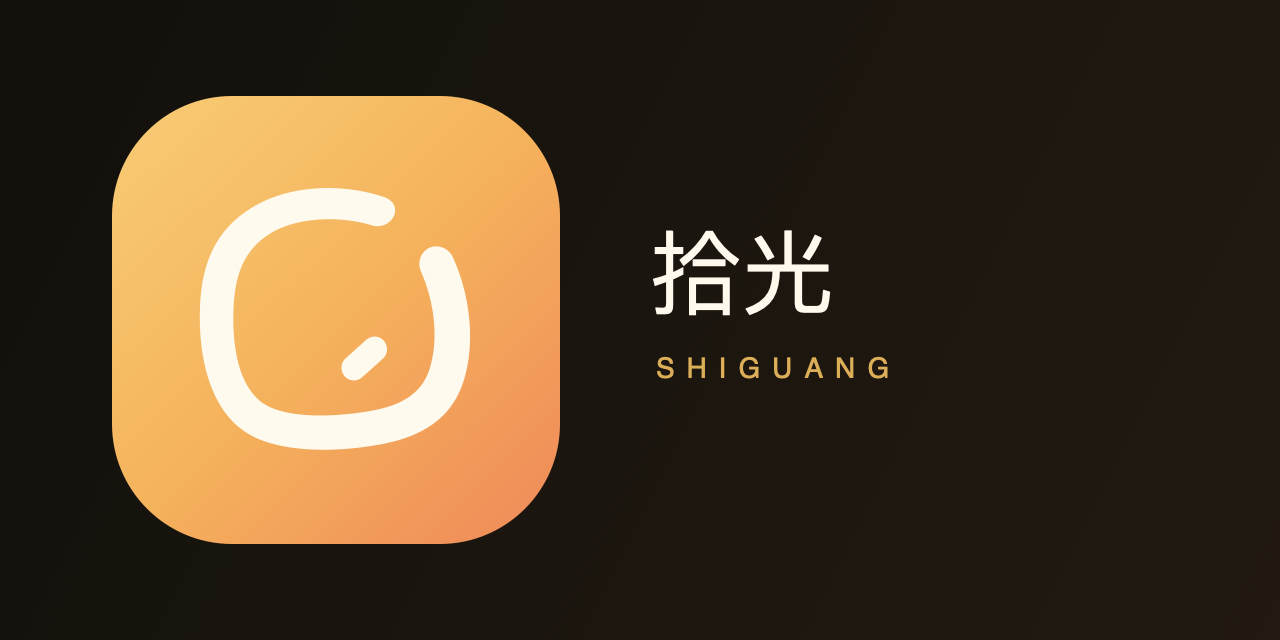
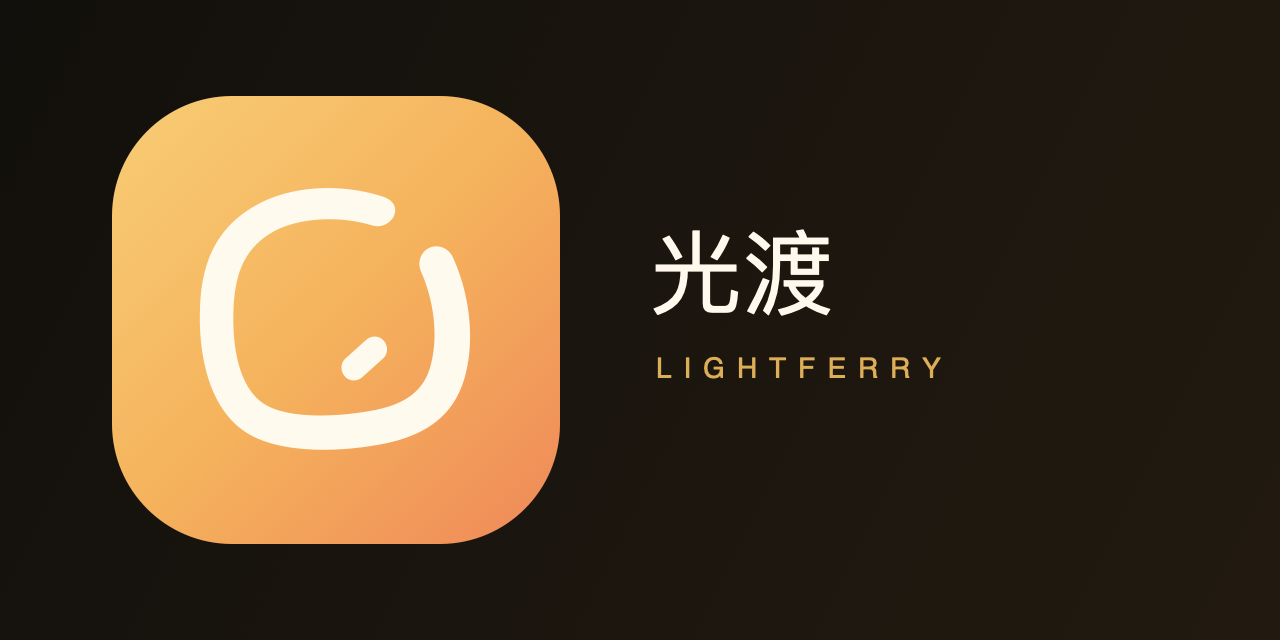
品牌：改用光渡 Lightferry 名称并清理未引用图片
- 四语言 README 与版本记录改为光渡（原名拾光），说明 v0.2.2 安装后仍显示旧名
- 帮助区加入售后邮箱 support@lightferry.app
- 更新 GitHub 分享图为光渡 / LIGHTFERRY
- 删除未被引用的重复截图与旧概览图

Changed region(s): [[0.5, 0.3438, 0.6562, 0.5], [0.5, 0.5625, 0.75, 0.5938]]

diff --git a/README.ja.md b/README.ja.md
@@ -1,30 +1,31 @@
 [简体中文](./README.md) · [繁體中文](./README.zh-TW.md) · [English](./README.en.md) · [日本語](./README.ja.md)
 
-<p align="center"><img src="./shiguang-icon.png" width="96" height="96" alt="拾光のアプリアイコン"></p>
-<h1 align="center">拾光 Shiguang</h1>
+<p align="center"><img src="./shiguang-icon.png" width="96" height="96" alt="光渡のアプリアイコン"></p>
+<h1 align="center">光渡 Lightferry</h1>
 <p align="center"><strong>撮影素材を、確かめながら持ち帰る。</strong></p>
+<p align="center">旧名は「拾光 Shiguang」です。v0.2.2 はインストール後も旧名で表示され、次のバージョンから光渡に統一します。</p>
 <p align="center">写真家、DIT、映像制作チームのための Mac 用素材ワークスペース。メモリーカード、ファイル、フォルダーから素材を取り込み、複数の保存先へ書き込み、コピーを検証して、検索できるプロジェクト・作業レポートを残します。</p>
 <p align="center"><a href="https://github.com/Sorasukiawa/shiguang/releases/download/v0.2.2/Shiguang_0.2.2_aarch64.dmg"><strong>v0.2.2 をダウンロード · Apple Silicon Mac</strong></a> · <a href="https://getshiguang.pages.dev/guides/">使い方</a> · <a href="https://github.com/Sorasukiawa/shiguang/releases/tag/v0.2.2">更新内容</a></p>
 <p align="center">無料ベータ版 · 简体中文 / 繁體中文 / English / 日本語 · ライト／ダークテーマ</p>
 
-![3 件のサンプル撮影プロジェクトを表示する拾光 v0.2.1 Mac のプロジェクト画面。ダークテーマ、中国語 UI](./projects-v0.2.1-native-macos.png)
+![3 件のサンプル撮影プロジェクトを表示するv0.2.1 Mac のプロジェクト画面。ダークテーマ、中国語 UI](./projects-v0.2.1-native-macos.png)
 
 *v0.2.1 Apple Silicon Mac のネイティブウィンドウを撮影。プロジェクト名とデータは隔離したデモ環境のサンプルです。*
 
 ## 撮影素材の流れを明確に
 
-| 開始する作業 | 拾光でできること | 確認できる結果 |
+| 開始する作業 | 光渡でできること | 確認できる結果 |
 | --- | --- | --- |
 | **カード取り込み** | 写真・動画・音声を検出し、プロジェクト、撮影日、カメラごとに整理。元カードを一度読み、作業用と二つ目のバックアップ先へ同時に書き込み | 保存先ごとのコピー・検証結果、カード履歴、再試行の状態 |
 | **ファイル／フォルダーのコピー** | Finder からドラッグ、または選択。階層を保持して一つ以上の保存先へコピー | 元ファイル一覧、空き容量の事前確認、転送結果、未完了分の再試行 |
 | **プロジェクトへの素材追加** | 既存素材を指定プロジェクトへ追加し、写真・動画・音声・制作ファイルなどに振り分け | 追加先、プロジェクト記録、作業結果 |
 | **プロジェクトのアーカイブ** | ローカルまたはネットワーク先へアーカイブ。プロジェクト記録を保持し、ローカル素材を自動削除しない | アーカイブ作業、取得できた検証結果、レポート |
 
-拾光は**既存ファイルを上書きしません**。複数の保存先は別々に結果を記録します。中断や切断の後は保存先の識別情報と空き容量を再確認し、未完了のコピーだけを再試行します。
+光渡は**既存ファイルを上書きしません**。複数の保存先は別々に結果を記録します。中断や切断の後は保存先の識別情報と空き容量を再確認し、未完了のコピーだけを再試行します。
 
 ### ファイルコピー
 
-![サンプル元フォルダー、2 つの保存先、完全検証を表示する拾光 v0.2.1 Mac のファイルコピー画面。中国語 UI](./file-copy-v0.2.1-native-macos.png)
+![サンプル元フォルダー、2 つの保存先、完全検証を表示するv0.2.1 Mac のファイルコピー画面。中国語 UI](./file-copy-v0.2.1-native-macos.png)
 
 *v0.2.1 Apple Silicon Mac のネイティブウィンドウを撮影。パスとファイルは隔離したデモ環境のサンプルです。*
 
@@ -32,14 +33,14 @@
 
 プロジェクト、日付、種類、状態で結果を探し、オフライン HTML または複数ページの PDF に書き出せます。過去の記録にない項目は「未記録」と示し、成功と推定しません。
 
-<img src="./report-v0.2.1-synthetic.png" width="480" alt="中断・失敗を含む合成データを使った拾光 v0.2.1 の PDF 作業レポート。中国語表示">
+<img src="./report-v0.2.1-synthetic.png" width="480" alt="中断・失敗を含む合成データを使ったv0.2.1 の PDF 作業レポート。中国語表示">
 
 *v0.2.1 のレポート例。内容はすべて合成データです。*
 
 ## 使い始める
 
 1. 上の **Apple Silicon Mac** 用 DMG をダウンロードしてください。Intel Mac と Windows 向けの公開インストーラーはありません。チップは ** → この Mac について** で確認できます。
-2. DMG を開き、拾光を「アプリケーション」へドラッグします。macOS が初回起動を止めた場合は、**システム設定 → プライバシーとセキュリティ** でアプリを確認し、「このまま開く」を選びます。Gatekeeper を無効にする必要はありません。
+2. DMG を開き、拾光を「アプリケーション」へドラッグします（v0.2.2 は旧名のままです）。macOS が初回起動を止めた場合は、**システム設定 → プライバシーとセキュリティ** でアプリを確認し、「このまま開く」を選びます。Gatekeeper を無効にする必要はありません。
 3. 元データ、プロジェクト、保存先を追加し、容量と検証方法を確認してから開始してください。大切な素材は元カードと別の信頼できるバックアップを残し、コピー確認後にカードを初期化してください。
 
 現在は**無料ベータ版**です。ad-hoc 署名を使用しており、Apple Developer ID 署名と公証はありません。[このリポジトリの Releases](https://github.com/Sorasukiawa/shiguang/releases) からのみ入手してください。カード取り込み、ファイルコピー、アーカイブの実行中は更新をインストールできません。
@@ -58,14 +59,14 @@
 
 - **検証なし**は書き込み時のエラーだけを確認するため、大切な素材には適しません。**簡易検証**は各保存先を読み直し、コピー時に計算した元ファイルの XXH64 と比較します。**完全検証**ではさらにすべての元ファイルを独立して読み直します。XXH64 は内容の差を調べるもので、暗号学的な署名ではありません。検証後も重要な素材を目視確認してください。
 - 作業用、第二バックアップ、アーカイブ先には APFS を推奨します。ExFAT を保存先に使う場合は安全機能の確認が必要で、確認できなければ書き込み前に拒否します。ExFAT のカメラカードは読み取り専用の元データとして使えます。既存メディアの初期化は要求しません。
-- 素材の走査・コピー・検証とプロジェクト記録は既定でローカル処理され、拾光のサーバーへ写真や動画をアップロードしません。NAS や外部同期フォルダーを選んだ場合、その後の転送・同期は OS または各サービスが担当します。切断や同期の動作は利用環境で確認してください。
+- 素材の走査・コピー・検証とプロジェクト記録は既定でローカル処理され、光渡のサーバーへ写真や動画をアップロードしません。NAS や外部同期フォルダーを選んだ場合、その後の転送・同期は OS または各サービスが担当します。切断や同期の動作は利用環境で確認してください。
 
 </details>
 
 ## ヘルプとフィードバック
 
-[公式サイト](https://getshiguang.pages.dev/) · [使い方](https://getshiguang.pages.dev/guides/) · [問題を報告](https://github.com/Sorasukiawa/shiguang/issues)
+[公式サイト](https://getshiguang.pages.dev/) · [使い方](https://getshiguang.pages.dev/guides/) · [問題を報告](https://github.com/Sorasukiawa/shiguang/issues) · 非公開のお問い合わせ：[support@lightferry.app](mailto:support@lightferry.app)
 
 報告にはアプリと macOS のバージョン、チップ、元データと保存先の形式、再現手順、エラー全文を添えてください。画像のプロジェクト名やパスは隠し、**元の素材や顧客情報はアップロードしないでください**。
 
-このリポジトリはインストーラー、説明、リリース履歴、フィードバックを公開します。**拾光アプリのソースコードは含まず、オープンソースライセンスや再配布の許可もありません。** GitHub が自動生成する Source code は、このリポジトリの公開資料をまとめたもので、アプリのインストーラーではありません。
+このリポジトリはインストーラー、説明、リリース履歴、フィードバックを公開します。**光渡アプリのソースコードは含まず、オープンソースライセンスや再配布の許可もありません。** GitHub が自動生成する Source code は、このリポジトリの公開資料をまとめたもので、アプリのインストーラーではありません。

diff --git a/README.en.md b/README.en.md
@@ -1,30 +1,31 @@
 [简体中文](./README.md) · [繁體中文](./README.zh-TW.md) · [English](./README.en.md) · [日本語](./README.ja.md)
 
-<p align="center"><img src="./shiguang-icon.png" width="96" height="96" alt="Shiguang app icon"></p>
-<h1 align="center">Shiguang 拾光</h1>
+<p align="center"><img src="./shiguang-icon.png" width="96" height="96" alt="Lightferry app icon"></p>
+<h1 align="center">Lightferry 光渡</h1>
 <p align="center"><strong>Bring your footage home with confidence.</strong></p>
+<p align="center">Formerly Shiguang 拾光. v0.2.2 still shows the old name after installation; the next release switches to Lightferry.</p>
 <p align="center">A Mac media workspace for photographers, DITs, and video production teams. Ingest camera cards, files, and folders; write to multiple destinations; verify each copy; and keep searchable project and task reports.</p>
 <p align="center"><a href="https://github.com/Sorasukiawa/shiguang/releases/download/v0.2.2/Shiguang_0.2.2_aarch64.dmg"><strong>Download v0.2.2 · Apple Silicon Mac</strong></a> · <a href="https://getshiguang.pages.dev/guides/">User guides</a> · <a href="https://github.com/Sorasukiawa/shiguang/releases/tag/v0.2.2">What's new</a></p>
 <p align="center">Free beta · 简体中文 / 繁體中文 / English / 日本語 · Light and dark themes</p>
 
-![Shiguang v0.2.1 Mac project workspace with three sample photography projects; dark theme, Chinese interface](./projects-v0.2.1-native-macos.png)
+![v0.2.1 Mac project workspace with three sample photography projects; dark theme, Chinese interface](./projects-v0.2.1-native-macos.png)
 
 *Native v0.2.1 Apple Silicon Mac window capture. Project names and data come from an isolated demo environment.*
 
 ## A clear path for every shoot
 
-| Start with | What Shiguang does | What you can check |
+| Start with | What Lightferry does | What you can check |
 | --- | --- | --- |
 | **Camera card ingest** | Finds photo, video, and audio media; organizes by project, shoot date, and camera; reads the source once while writing to a working disk and a second backup | Copy and verification results for each destination, card history, and retry status |
 | **File and folder copy** | Takes files from Finder or a picker, preserves folder structure, and writes to one or more destinations | Source list, capacity preflight, transfer results, and retry for incomplete copies |
 | **Project media import** | Adds existing media to a chosen project and maps photos, video, audio, and project files into its folders | Import location, project record, and task result |
 | **Project archive** | Archives to a local or network destination while retaining the project record; does not automatically delete local media | Archive task, available verification result, and report |
 
-Shiguang **never overwrites existing files**. Multi-destination results are tracked separately. After an interruption or disconnect, it checks destination identity and capacity again before retrying incomplete copies.
+Lightferry **never overwrites existing files**. Multi-destination results are tracked separately. After an interruption or disconnect, it checks destination identity and capacity again before retrying incomplete copies.
 
 ### File copy
 
-![Shiguang v0.2.1 Mac file-copy screen with a sample source, two destinations, and full verification; Chinese interface](./file-copy-v0.2.1-native-macos.png)
+![v0.2.1 Mac file-copy screen with a sample source, two destinations, and full verification; Chinese interface](./file-copy-v0.2.1-native-macos.png)
 
 *Native v0.2.1 Apple Silicon Mac window capture. Paths and files come from an isolated demo environment.*
 
@@ -32,14 +33,14 @@ Shiguang **never overwrites existing files**. Multi-destination results are trac
 
 Find results by project, date, type, and status; export an offline HTML or multipage PDF report. Missing fields in older records are marked as unknown rather than treated as success.
 
-<img src="./report-v0.2.1-synthetic.png" width="480" alt="Shiguang v0.2.1 PDF task report with synthetic data showing interrupted and failed tasks; Chinese content">
+<img src="./report-v0.2.1-synthetic.png" width="480" alt="v0.2.1 PDF task report with synthetic data showing interrupted and failed tasks; Chinese content">
 
 *v0.2.1 report example; all content is synthetic.*
 
 ## Get started
 
 1. Download the **Apple Silicon Mac** DMG above. There is no public Intel Mac or Windows installer. Check your chip in **Apple menu → About This Mac**.
-2. Open the DMG and drag Shiguang into Applications. If macOS blocks the first launch, verify the app in **System Settings → Privacy & Security** and choose **Open Anyway**. You do not need to disable Gatekeeper.
+2. Open the DMG and drag Shiguang into Applications (v0.2.2 still uses the old name). If macOS blocks the first launch, verify the app in **System Settings → Privacy & Security** and choose **Open Anyway**. You do not need to disable Gatekeeper.
 3. Add a source, project, and destinations. Review capacity and verification before starting. Keep the original card and another reliable backup for important media; format the card only after checking the copies.
 
 This is a **free beta** with an ad-hoc signature, without Apple Developer ID signing or notarization. Download only from [this repository's Releases](https://github.com/Sorasukiawa/shiguang/releases). Active ingest, file-copy, or archive tasks block installation of an update.
@@ -57,15 +58,15 @@ This is a **free beta** with an ad-hoc signature, without Apple Developer ID sig
 <summary>Verification, storage, and network folders</summary>
 
 - **No verification** only relies on write errors and is unsuitable for important media. **Fast verification** rereads each destination file and compares its XXH64 with the hash computed from the source during copying. **Full verification** independently rereads every source file too. XXH64 detects content differences; it is not a cryptographic signature. Spot-check critical media even after verification passes.
-- APFS is recommended for working, second-backup, and archive destinations. ExFAT can be a destination only if it passes Shiguang's safety capability check; otherwise writing is refused before it starts. An ExFAT camera card can be a read-only source. Shiguang does not require formatting existing media.
-- Scanning, copying, verification, and project records are local by default; Shiguang does not upload photos or video to its own server. If you choose a NAS or third-party sync folder, the operating system or service handles subsequent network transfer or sync. Check disconnect and sync behavior in your own environment.
+- APFS is recommended for working, second-backup, and archive destinations. ExFAT can be a destination only if it passes Lightferry's safety capability check; otherwise writing is refused before it starts. An ExFAT camera card can be a read-only source. Lightferry does not require formatting existing media.
+- Scanning, copying, verification, and project records are local by default; Lightferry does not upload photos or video to its own server. If you choose a NAS or third-party sync folder, the operating system or service handles subsequent network transfer or sync. Check disconnect and sync behavior in your own environment.
 
 </details>
 
 ## Help and feedback
 
-[Website](https://getshiguang.pages.dev/) · [Guides](https://getshiguang.pages.dev/guides/) · [Report an issue](https://github.com/Sorasukiawa/shiguang/issues)
+[Website](https://getshiguang.pages.dev/) · [Guides](https://getshiguang.pages.dev/guides/) · [Report an issue](https://github.com/Sorasukiawa/shiguang/issues) · Private support: [support@lightferry.app](mailto:support@lightferry.app)
 
 Include the app version, macOS version and chip, source and destination formats, reproduction steps, and complete error text. Redact project names and paths in screenshots. **Do not upload original media or client information.**
 
-This repository hosts installers, documentation, release history, and feedback. **It does not contain the Shiguang app source code or grant an open-source or redistribution license.** GitHub's automatic Source code archives contain only this repository's public materials; they are not app installers.
+This repository hosts installers, documentation, release history, and feedback. **It does not contain the Lightferry app source code or grant an open-source or redistribution license.** GitHub's automatic Source code archives contain only this repository's public materials; they are not app installers.

diff --git a/README.zh-TW.md b/README.zh-TW.md
@@ -1,30 +1,31 @@
 [简体中文](./README.md) · [繁體中文](./README.zh-TW.md) · [English](./README.en.md) · [日本語](./README.ja.md)
 
-<p align="center"><img src="./shiguang-icon.png" width="96" height="96" alt="拾光 App 圖示"></p>
-<h1 align="center">拾光 Shiguang</h1>
+<p align="center"><img src="./shiguang-icon.png" width="96" height="96" alt="光渡 App 圖示"></p>
+<h1 align="center">光渡 Lightferry</h1>
 <p align="center"><strong>把拍攝素材，妥善帶回。</strong></p>
+<p align="center">原名「拾光 Shiguang」。v0.2.2 安裝後仍顯示舊名，下一版起統一為光渡。</p>
 <p align="center">為攝影師、DIT 與影像製作團隊設計的 Mac 素材工作台：從記憶卡、檔案與資料夾收取素材，寫入多個目的地，驗證副本，留下可查閱的專案與工作報告。</p>
 <p align="center"><a href="https://github.com/Sorasukiawa/shiguang/releases/download/v0.2.2/Shiguang_0.2.2_aarch64.dmg"><strong>下載 v0.2.2 · Apple Silicon Mac</strong></a> · <a href="https://getshiguang.pages.dev/guides/">使用指南</a> · <a href="https://github.com/Sorasukiawa/shiguang/releases/tag/v0.2.2">版本更新</a></p>
 <p align="center">免費測試版 · 简体中文 / 繁體中文 / English / 日本語 · 淺色與深色主題</p>
 
-![拾光 v0.2.1 Mac 專案工作台，顯示三個示例攝影專案；深色主題，簡體中文介面](./projects-v0.2.1-native-macos.png)
+![v0.2.1 Mac 專案工作台，顯示三個示例攝影專案；深色主題，簡體中文介面](./projects-v0.2.1-native-macos.png)
 
 *v0.2.1 Apple Silicon Mac 原生視窗截圖；專案名稱與資料來自隔離的演示環境。*
 
 ## 一條清楚的素材工作流程
 
-| 從哪裡開始 | 拾光會做什麼 | 最後可確認什麼 |
+| 從哪裡開始 | 光渡會做什麼 | 最後可確認什麼 |
 | --- | --- | --- |
 | **記憶卡轉存** | 辨識照片、影片與音訊，依專案、拍攝日及機位整理；讀取來源一次，同時寫入工作碟與第二備份碟 | 各目的地的複製與驗證結果、記憶卡紀錄及補拷狀態 |
 | **檔案與資料夾複製** | 從 Finder 拖入或選擇來源，保留資料夾層級，寫入一個或多個目的地 | 來源清單、空間預檢、傳輸結果及失敗副本的重試入口 |
 | **專案素材匯入** | 把現有素材加入指定專案，依照片、影片、音訊、工程檔等類別對應資料夾 | 匯入位置、專案紀錄與工作結果 |
 | **專案封存** | 封存至本機或網路目的地，保留專案紀錄；不會自動刪除本機素材 | 封存工作、可取得的驗證結果與報告 |
 
-拾光**不覆蓋現有檔案**。多目的地工作會分別記錄結果；中斷或目的地離線後，重新確認目的地身分與空間，再補齊未完成的副本。
+光渡**不覆蓋現有檔案**。多目的地工作會分別記錄結果；中斷或目的地離線後，重新確認目的地身分與空間，再補齊未完成的副本。
 
 ### 檔案複製
 
-![拾光 v0.2.1 Mac 檔案複製畫面：示例來源、兩個目的地與完整驗證；簡體中文介面](./file-copy-v0.2.1-native-macos.png)
+![v0.2.1 Mac 檔案複製畫面：示例來源、兩個目的地與完整驗證；簡體中文介面](./file-copy-v0.2.1-native-macos.png)
 
 *v0.2.1 Apple Silicon Mac 原生視窗截圖；路徑與檔案來自隔離的演示環境。*
 
@@ -32,14 +33,14 @@
 
 可依專案、日期、類型與狀態搜尋工作結果，並匯出離線 HTML 或多頁 PDF。舊紀錄缺少的欄位會標為「未記錄」，不會推定成功。
 
-<img src="./report-v0.2.1-synthetic.png" width="480" alt="拾光 v0.2.1 PDF 工作報告示例，使用合成資料展示中斷與失敗狀態；簡體中文內容">
+<img src="./report-v0.2.1-synthetic.png" width="480" alt="v0.2.1 PDF 工作報告示例，使用合成資料展示中斷與失敗狀態；簡體中文內容">
 
 *v0.2.1 報告示例；所有內容均為合成資料。*
 
 ## 開始使用
 
 1. 下載上方的 **Apple Silicon Mac** DMG；目前沒有 Intel Mac 或 Windows 公開安裝包。可在 ** → 關於這台 Mac** 查看晶片。
-2. 開啟 DMG，把「拾光」拖入「應用程式」。若 macOS 阻止首次開啟，至 **系統設定 → 隱私權與安全性** 核對 App 後選擇「仍要打開」。無需關閉 Gatekeeper。
+2. 開啟 DMG，把「拾光」拖入「應用程式」（v0.2.2 仍使用舊名）。若 macOS 阻止首次開啟，至 **系統設定 → 隱私權與安全性** 核對 App 後選擇「仍要打開」。無需關閉 Gatekeeper。
 3. 加入來源、專案與目的地，確認空間和驗證方式再開始。重要素材請保留原卡和另一份可靠備份，確認副本後才格式化記憶卡。
 
 目前是**免費測試版**，採用 ad-hoc 簽名，尚未取得 Apple Developer ID 簽名或 Apple 公證。請只從[本倉庫 Releases](https://github.com/Sorasukiawa/shiguang/releases)下載。記憶卡轉存、檔案複製或封存執行時會阻止安裝更新。
@@ -57,15 +58,15 @@
 <summary>驗證、儲存裝置與網路資料夾</summary>
 
 - **不驗證**只依據寫入過程是否報錯，不適合重要素材。**快速驗證**重讀每份目的地檔案，以 XXH64 比對寫入時的來源雜湊。**完整驗證**再獨立重讀所有來源檔案。XXH64 是內容差異檢查，不是加密簽名；通過後仍應人工抽查關鍵素材。
-- 工作碟、第二備份碟及封存目的地建議使用 APFS。ExFAT 可作為目的地，但必須先通過拾光的安全能力檢查；無法確認安全時會在寫入前拒絕。ExFAT 記憶卡可作為唯讀來源。拾光不要求格式化現有媒體。
-- 素材掃描、複製、驗證與專案紀錄預設在本機完成，不會上傳到拾光伺服器。若選擇 NAS 或第三方同步資料夾，後續網路傳輸或同步由相應系統與服務處理；斷線與同步行為應依實際環境確認。
+- 工作碟、第二備份碟及封存目的地建議使用 APFS。ExFAT 可作為目的地，但必須先通過光渡的安全能力檢查；無法確認安全時會在寫入前拒絕。ExFAT 記憶卡可作為唯讀來源。光渡不要求格式化現有媒體。
+- 素材掃描、複製、驗證與專案紀錄預設在本機完成，不會上傳到光渡伺服器。若選擇 NAS 或第三方同步資料夾，後續網路傳輸或同步由相應系統與服務處理；斷線與同步行為應依實際環境確認。
 
 </details>
 
 ## 幫助與回饋
 
-[官網](https://getshiguang.pages.dev/) · [使用指南](https://getshiguang.pages.dev/guides/) · [回報問題或建議](https://github.com/Sorasukiawa/shiguang/issues)
+[官網](https://getshiguang.pages.dev/) · [使用指南](https://getshiguang.pages.dev/guides/) · [回報問題或建議](https://github.com/Sorasukiawa/shiguang/issues) · 不便公開的問題：[support@lightferry.app](mailto:support@lightferry.app)
 
 回報時請提供版本、macOS 與晶片型號、來源及目的地格式、重現步驟和錯誤文字；截圖請遮蔽專案名稱與路徑，**不要上傳原始素材或客戶資料**。
 
-本倉庫用於發佈安裝包、說明、版本紀錄與回饋。**不包含拾光 App 原始碼，沒有提供開源授權或再散佈權利。** GitHub 自動產生的 Source code 壓縮檔只是本倉庫的公開資料，不能用來安裝拾光。
+本倉庫用於發佈安裝包、說明、版本紀錄與回饋。**不包含光渡 App 原始碼，沒有提供開源授權或再散佈權利。** GitHub 自動產生的 Source code 壓縮檔只是本倉庫的公開資料，不能用來安裝光渡。

diff --git a/README.md b/README.md
@@ -1,30 +1,31 @@
 [简体中文](./README.md) · [繁體中文](./README.zh-TW.md) · [English](./README.en.md) · [日本語](./README.ja.md)
 
-<p align="center"><img src="./shiguang-icon.png" width="96" height="96" alt="拾光 App 图标"></p>
-<h1 align="center">拾光 Shiguang</h1>
+<p align="center"><img src="./shiguang-icon.png" width="96" height="96" alt="光渡 App 图标"></p>
+<h1 align="center">光渡 Lightferry</h1>
 <p align="center"><strong>把拍摄素材，妥帖带回。</strong></p>
+<p align="center">原名「拾光 Shiguang」。v0.2.2 安装后仍显示旧名，下一版本起统一为光渡。</p>
 <p align="center">面向摄影师、DIT 与影像制作团队的 Mac 素材工作台：从相机卡、文件与文件夹收取素材，写入多个目的地，校验副本，留下可查阅的项目与任务报告。</p>
 <p align="center"><a href="https://github.com/Sorasukiawa/shiguang/releases/download/v0.2.2/Shiguang_0.2.2_aarch64.dmg"><strong>下载 v0.2.2 · Apple Silicon Mac</strong></a> · <a href="https://getshiguang.pages.dev/guides/">使用指南</a> · <a href="https://github.com/Sorasukiawa/shiguang/releases/tag/v0.2.2">本次更新</a></p>
 <p align="center">免费内测 · 简体中文 / 繁體中文 / English / 日本語 · 浅色与深色主题</p>
 
-![拾光 v0.2.1 Mac 项目工作台，展示三个示例摄影项目；深色主题](./projects-v0.2.1-native-macos.png)
+![v0.2.1 Mac 项目工作台，展示三个示例摄影项目；深色主题](./projects-v0.2.1-native-macos.png)
 
 *v0.2.1 Apple Silicon Mac 实机窗口截图；项目名称与数据均为隔离演示环境中的示例。*
 
 ## 一条清楚的素材工作流
 
-| 从哪里开始 | 拾光会做什么 | 最后可确认什么 |
+| 从哪里开始 | 光渡会做什么 | 最后可确认什么 |
 | --- | --- | --- |
 | **相机卡拷卡** | 识别照片、视频和音频，按项目、拍摄日与机位整理；一次读取来源，同时写入工作盘和第二备份盘 | 每个目标的拷贝与校验结果、卡片记录及补拷状态 |
 | **文件与文件夹拷贝** | 从 Finder 拖入或选择来源，保留目录层级，写入一个或多个目的地 | 来源清单、空间预检、传输结果与失败副本的重试入口 |
 | **项目素材导入** | 把已有素材加入指定项目，按照片、视频、音频、工程文件等类别映射目录 | 导入位置、项目记录与任务结果 |
 | **项目归档** | 将项目归档到本地或网络目标，保留原项目记录；归档不会自动删除本地素材 | 归档任务、可得的校验结果与报告 |
 
-拾光坚持**不覆盖已有文件**。多目标任务分别记录结果；中断或目标掉线后，先重新确认目标身份和空间，再补齐未完成的副本。
+光渡坚持**不覆盖已有文件**。多目标任务分别记录结果；中断或目标掉线后，先重新确认目标身份和空间，再补齐未完成的副本。
 
 ### 文件拷贝
 
-![拾光 v0.2.1 Mac 文件拷贝界面：示例来源、双目的地与完整校验](./file-copy-v0.2.1-native-macos.png)
+![v0.2.1 Mac 文件拷贝界面：示例来源、双目的地与完整校验](./file-copy-v0.2.1-native-macos.png)
 
 *v0.2.1 Apple Silicon Mac 实机窗口截图；路径与文件均为隔离演示环境中的示例。*
 
@@ -32,14 +33,14 @@
 
 任务结果可按项目、日期、类型与状态查找，并导出离线 HTML 或多页 PDF。旧记录缺失的字段会标为“未记录”，不会推定成功。
 
-<img src="./report-v0.2.1-synthetic.png" width="480" alt="拾光 v0.2.1 PDF 任务报告示例，使用合成数据并展示中断与失败状态">
+<img src="./report-v0.2.1-synthetic.png" width="480" alt="v0.2.1 PDF 任务报告示例，使用合成数据并展示中断与失败状态">
 
 *v0.2.1 报告示例；全部内容为合成数据。*
 
 ## 开始使用
 
 1. 在上方下载 **Apple Silicon Mac** 版 DMG；Intel Mac 与 Windows 暂无公开安装包。可在 ** → 关于本机** 查看芯片。
-2. 打开 DMG，将“拾光”拖入“应用程序”。若首次启动被 macOS 拦截，前往 **系统设置 → 隐私与安全性**，核对应用后选择“仍要打开”。无需关闭 Gatekeeper。
+2. 打开 DMG，将“拾光”拖入“应用程序”（v0.2.2 仍使用旧名）。若首次启动被 macOS 拦截，前往 **系统设置 → 隐私与安全性**，核对应用后选择“仍要打开”。无需关闭 Gatekeeper。
 3. 添加来源、项目和目标盘，检查空间与校验方式后再开始。重要素材请保留原卡及另一份可靠备份，确认副本后再格式化卡片。
 
 当前为 **免费内测版**，采用 ad-hoc 签名，尚无 Apple Developer ID 签名或 Apple 公证。请只从[本仓库 Releases](https://github.com/Sorasukiawa/shiguang/releases)下载。正在运行的拷卡、文件拷贝或归档任务会阻止更新安装。
@@ -57,15 +58,15 @@
 <summary>校验、存储盘与网络目录</summary>
 
 - **不校验**只依据写入过程是否报错，不适合重要素材。**快速校验**重读每份目标文件，计算 XXH64 与写入时的来源哈希比对。**完整校验**再独立重读全部来源文件。XXH64 用于检测内容差异，不是加密签名；通过后仍应人工抽查关键素材。
-- 工作盘、第二备份盘和归档目标推荐 APFS。ExFAT 可作为目标盘，但必须先通过拾光的安全能力检查；无法证明安全时会在写入前拒绝。ExFAT 相机卡可作为只读来源。拾光不会要求格式化已有介质。
-- 素材扫描、拷贝、校验和项目记录默认在本机完成，不会上传到拾光服务器。若选择 NAS 或第三方同步文件夹，后续网络传输或同步由对应系统与服务处理。网络盘断连和同步服务的行为仍需按实际环境核对。
+- 工作盘、第二备份盘和归档目标推荐 APFS。ExFAT 可作为目标盘，但必须先通过光渡的安全能力检查；无法证明安全时会在写入前拒绝。ExFAT 相机卡可作为只读来源。光渡不会要求格式化已有介质。
+- 素材扫描、拷贝、校验和项目记录默认在本机完成，不会上传到光渡服务器。若选择 NAS 或第三方同步文件夹，后续网络传输或同步由对应系统与服务处理。网络盘断连和同步服务的行为仍需按实际环境核对。
 
 </details>
 
 ## 帮助与反馈
 
-[官网](https://getshiguang.pages.dev/) · [使用指南](https://getshiguang.pages.dev/guides/) · [提交问题或建议](https://github.com/Sorasukiawa/shiguang/issues)
+[官网](https://getshiguang.pages.dev/) · [使用指南](https://getshiguang.pages.dev/guides/) · [提交问题或建议](https://github.com/Sorasukiawa/shiguang/issues) · 不便公开的问题：[support@lightferry.app](mailto:support@lightferry.app)
 
 反馈时请提供版本、macOS 与芯片型号、来源和目标格式、复现步骤及错误文字；截图请遮挡项目名和路径，**不要上传原始素材或客户资料**。
 
-本仓库用于发布安装包、说明、版本记录与反馈。**仓库不包含拾光 App 源代码，未提供开源许可证或再分发授权。** GitHub 自动生成的 Source code 压缩包只是本仓库公开资料，不能安装为拾光。
+本仓库用于发布安装包、说明、版本记录与反馈。**仓库不包含光渡 App 源代码，未提供开源许可证或再分发授权。** GitHub 自动生成的 Source code 压缩包只是本仓库公开资料，不能安装为光渡。

diff --git a/VERSIONS.md b/VERSIONS.md
@@ -1,6 +1,6 @@
 # 版本记录 / Release history / 版本紀錄 / リリース履歴
 
-拾光目前公开提供 **Apple Silicon macOS 免费内测版**。以下每个链接都固定指向对应版本，历史 DMG 不会自动跳到最新版。
+光渡（原名拾光）目前公开提供 **Apple Silicon macOS 免费内测版**。以下每个链接都固定指向对应版本，历史 DMG 不会自动跳到最新版。
 
 > v0.1.17 公开安装包缺少更新通道：已经安装该版的用户需结束任务、退出拾光，并使用目标版本的 DMG 手动升级。其他旧版若未配置更新通道，也请使用 DMG。
 
@@ -23,6 +23,6 @@
 
 - `Shiguang_<版本>_aarch64.dmg`：供 Apple Silicon Mac 手动安装。
 - `Shiguang_aarch64.app.tar.gz`、`.sig` 与 `latest.json`：供应用内更新使用；不是手动安装包。
-- GitHub 自动生成的 Source code 归档只包含本仓库公开资料，不包含拾光 App 源码。
+- GitHub 自动生成的 Source code 归档只包含本仓库公开资料，不包含光渡 App 源码。
 
 [返回主页](./README.md) · [Back to README](./README.en.md)
